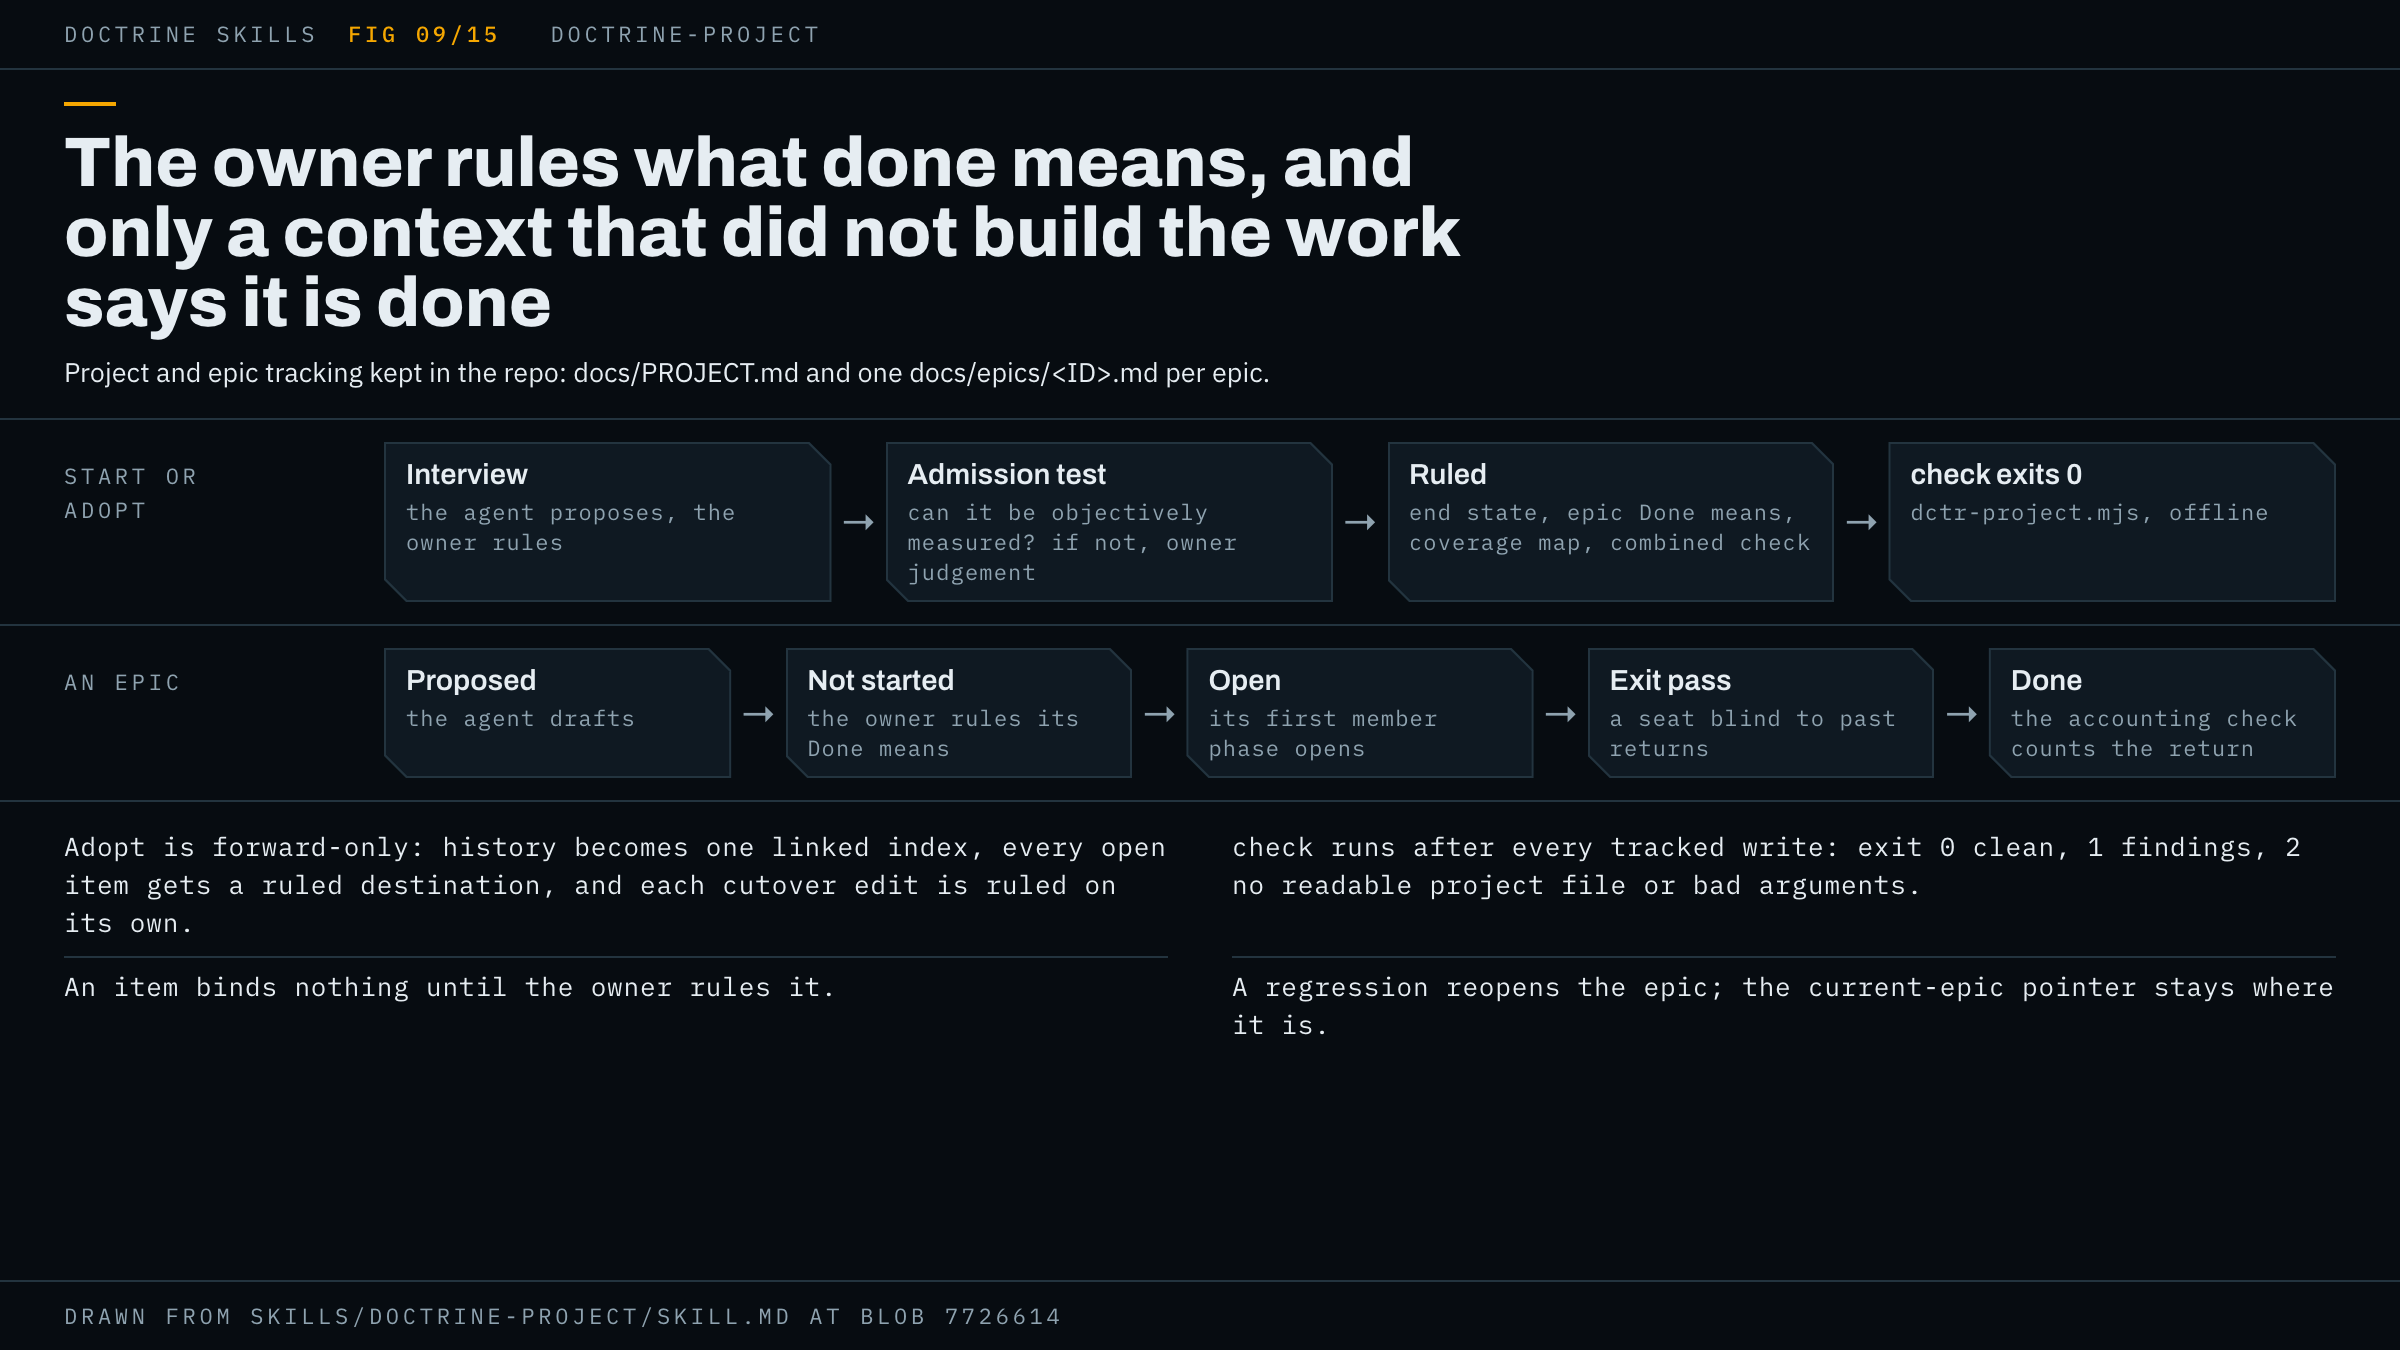
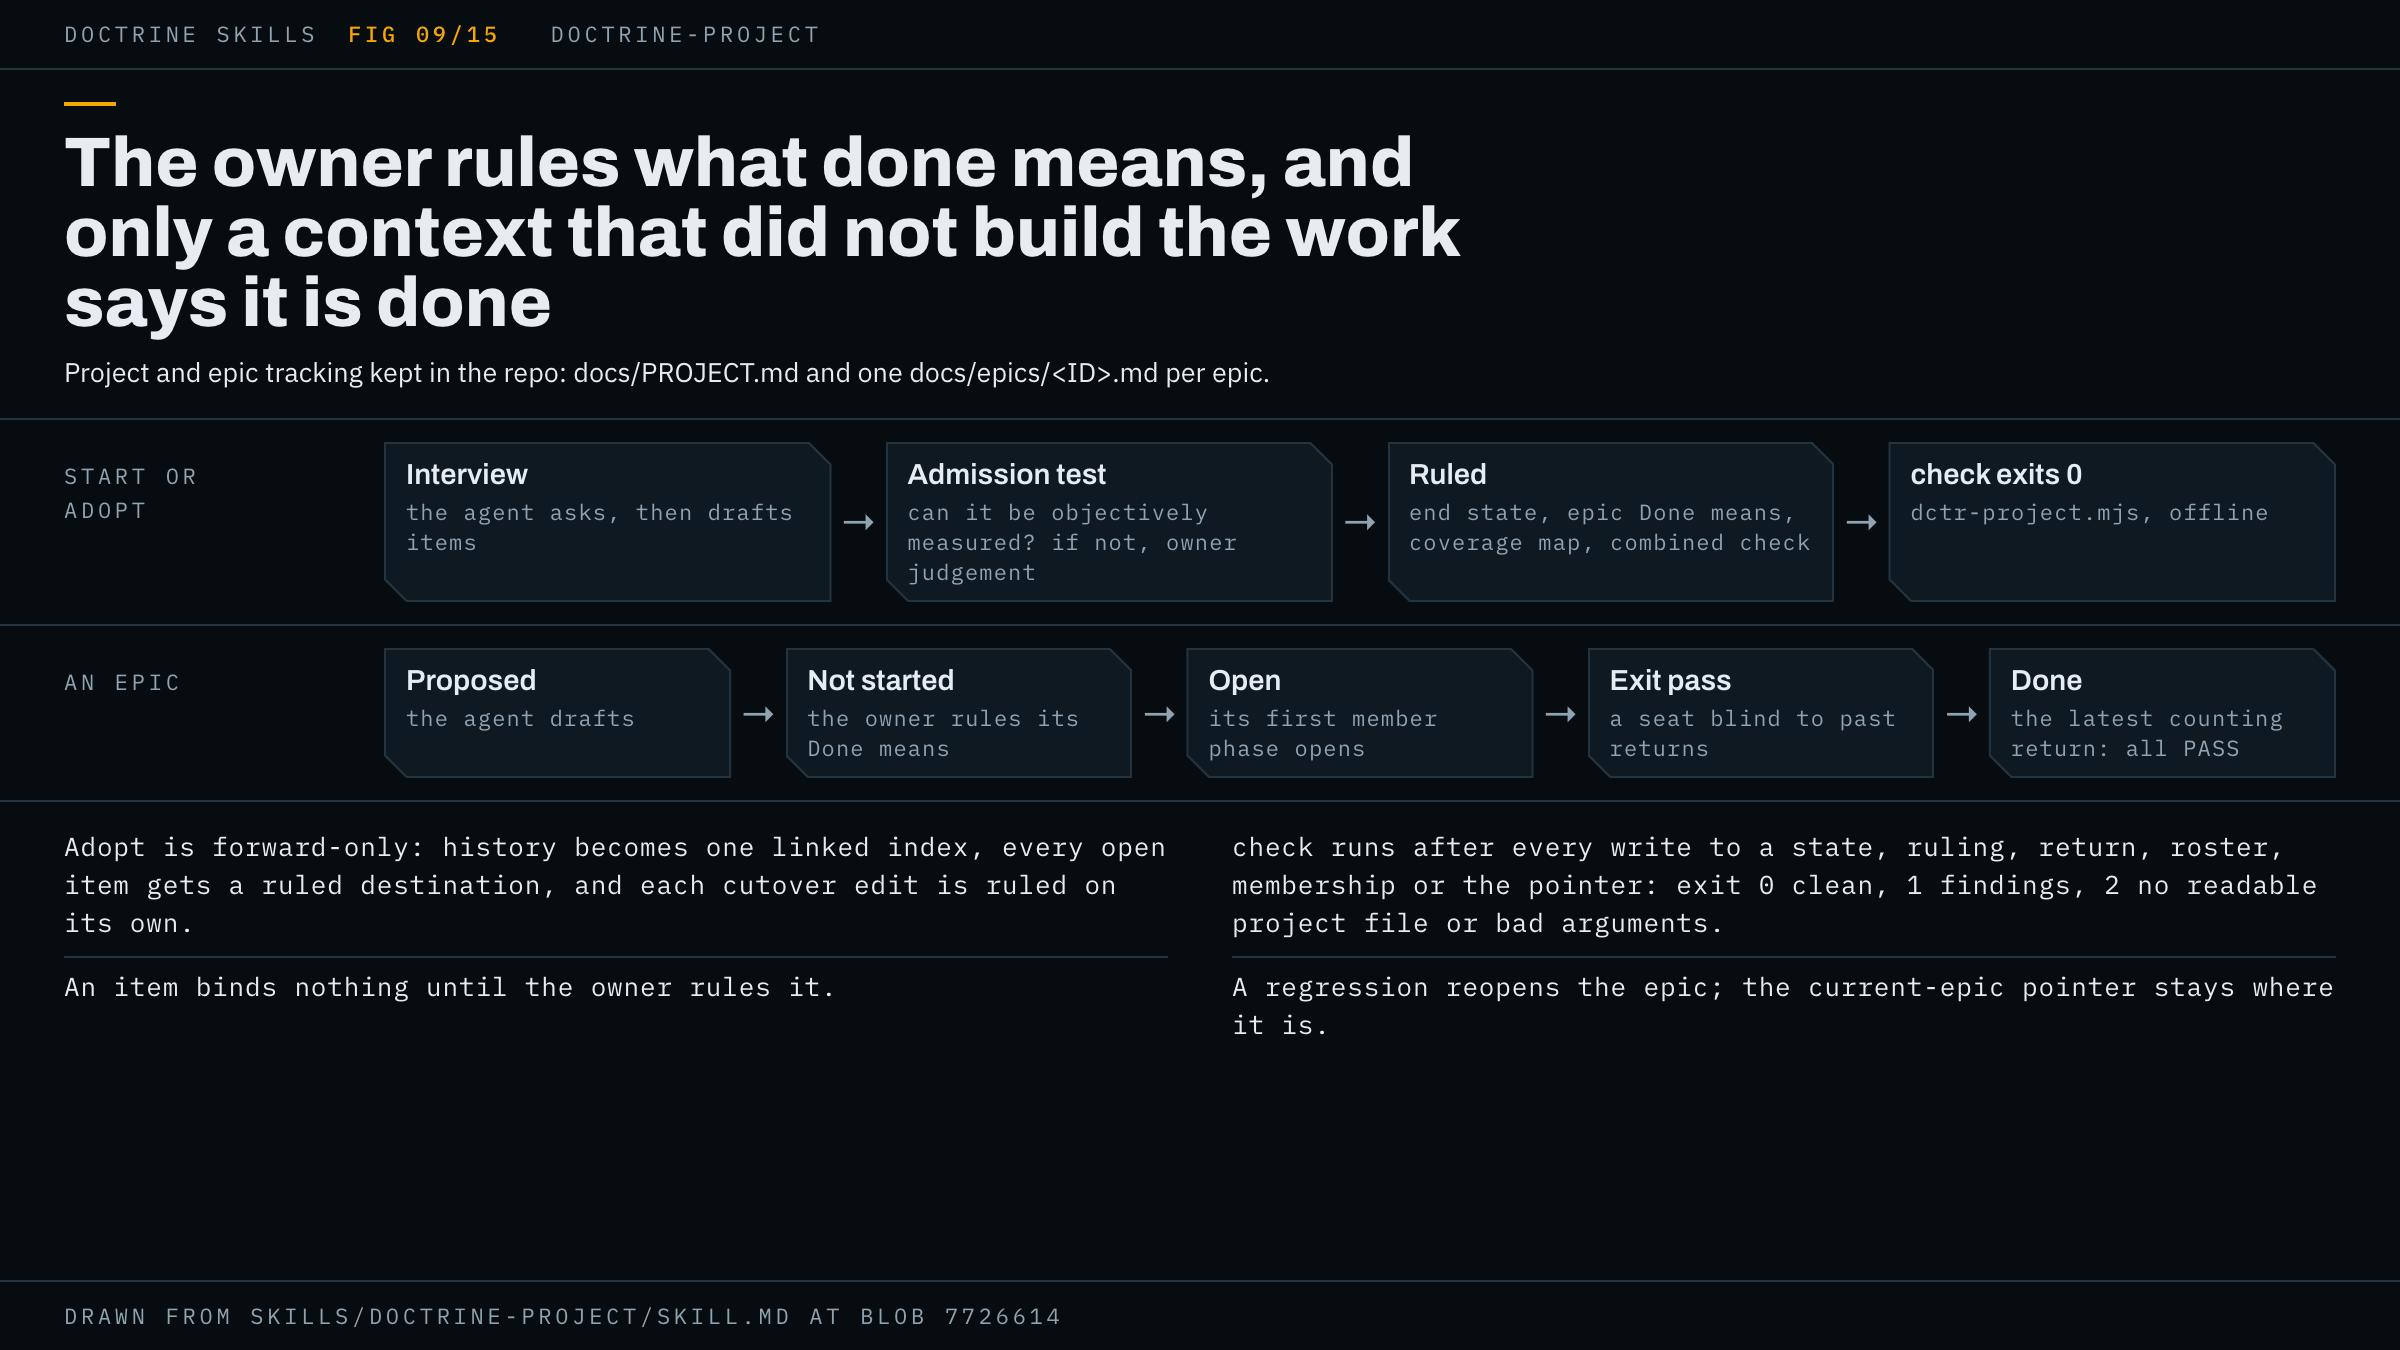
doctrine-project page: closing-round repairs against the skill's admission, exit, coverage and combined check rules

Changed region(s): [[0.5, 0.6222, 0.9375, 0.6844], [0.8438, 0.5289, 0.9375, 0.56], [0.2188, 0.3733, 0.3125, 0.4044]]

diff --git a/docs/skills/figures/doctrine-project.html b/docs/skills/figures/doctrine-project.html
@@ -19,7 +19,7 @@
 <section class="row">
   <div class="label">Start or<br>adopt</div>
   <div class="flow">
-    <div class="box"><b>Interview</b><span>the agent proposes, the owner rules</span></div>
+    <div class="box"><b>Interview</b><span>the agent asks, then drafts items</span></div>
     <div class="arrow">→</div>
     <div class="box"><b>Admission test</b><span>can it be objectively measured? if not, owner judgement</span></div>
     <div class="arrow">→</div>
@@ -40,13 +40,13 @@
     <div class="arrow">→</div>
     <div class="box"><b>Exit pass</b><span>a seat blind to past returns</span></div>
     <div class="arrow">→</div>
-    <div class="box"><b>Done</b><span>the accounting check counts the return</span></div>
+    <div class="box"><b>Done</b><span>the latest counting return: all PASS</span></div>
   </div>
 </section>
 
 <section class="notes">
   <p>Adopt is forward-only: history becomes one linked index, every open item gets a ruled destination, and each cutover edit is ruled on its own.</p>
-  <p>check runs after every tracked write: exit 0 clean, 1 findings, 2 no readable project file or bad arguments.</p>
+  <p>check runs after every write to a state, ruling, return, roster, membership or the pointer: exit 0 clean, 1 findings, 2 no readable project file or bad arguments.</p>
   <p>An item binds nothing until the owner rules it.</p>
   <p>A regression reopens the epic; the current-epic pointer stays where it is.</p>
 </section>

diff --git a/docs/skills/doctrine-project.md b/docs/skills/doctrine-project.md
@@ -12,7 +12,7 @@ The trigger is a request to start tracking a project, or to adopt an existing re
 
 It does not build an epic. Each phase still runs under the wrapper that fits its shape, such as `doctrine-code` or `doctrine-write`. Once a repo carries `docs/PROJECT.md`, the hub's step 1 sends every phase there through this skill's lifecycle procedure, whichever wrapper runs it, so you invoke `doctrine-project` once and not per phase.
 
-It is not for a one-off question or a single edit to a tracker file. The hub says not to use the doctrine for those.
+It is not for a one-off question, or a one-off edit to a single file nothing else reads, which the hub says needs no doctrine. A project file or an epic record is read by every later phase, so an edit to one is not that case.
 
 ## The two modes
 
@@ -39,11 +39,11 @@ Every item has seven fields: an ID, an Outcome, a Type, a Check (what a context 
 
 Every end-state and Done means item passes one admission test before it reaches you: "Can [requirement] be objectively measured/verified?" An item that cannot is type T4, owner judgement, and its check verifies that your ruling on a named revision exists, never the taste. An item that joins two requirements is split in two. An item missing any field is not put to you.
 
-Where an item's Check can run at the revision it is admitted at, the agent runs its Control and its Check there and keeps both transcripts as the item's admission evidence. The Control has to fail for the reason the Check measures, or the Check is repaired before the item goes anywhere. Where the Check cannot run yet, its Control line carries the mark `not yet shown failing:` and what it needs to run.
+Where an item's Check can run at the revision it is admitted at, the agent runs its Control and its Check there and keeps both transcripts as the item's admission evidence. The Control has to fail for the reason the Check measures, or the Check is repaired before the item goes anywhere. Where the Check already passes, something other than that Check settles whether the Outcome is present. Where it is, and the Control failed for the reason the Check measures, the item is not live work: it is history, or you rule it `preserve` for the phase that must keep it passing. Where the Outcome is absent, the Check cannot tell present from absent and is repaired. A run that fell over before it measured anything has not run. Where the Check cannot run yet, its Control line carries the mark `not yet shown failing:` and what it needs to run, and the mark comes off only once the Control has been run and shown failing.
 
 What you rule, besides each item:
 
-- the coverage map, which names for each end-state item exactly one epic that satisfies it, or a project-level ruling, and for each epic its planned member phases, each phase carrying one obligation toward each item it serves: satisfy, contribute or preserve;
+- the coverage map, which names for each end-state item exactly one epic that satisfies it, or a project-level ruling, and for each epic its planned member phases, each phase carrying one obligation toward each item it serves: satisfy, contribute or preserve. A phase opened for an epic takes one of those planned names or comes with a `coverage` ruling that adds it, and the planned names and the epic's `## Members` phases stay one set;
 - each epic's `Combined check:` line, which runs across the seams between its member phases, ruled with its Done means;
 - in adopt, each open item's destination and each cutover edit.
 
@@ -67,13 +67,17 @@ Until you rule an item it binds nothing: no seat (an agent the run dispatches) t
 
 The project is Proposed until you rule its end state, then Ruled, and Done only when every epic on the roster is Done, Dropped or Superseded and a project exit pass returns a result that counts. A new end-state ruling, a regression, an epic leaving a terminal state or a new roster line puts it back to Ruled.
 
-**Exit passes.** The agent opens an epic's exit pass once its member phases have exited, and the project's once every roster epic is terminal. It writes the revision on the `Certification target:` line, then dispatches a seat that did not build the work. That seat gets the record with every `return` and `regression` entry removed, and its search excludes them in every tracked file, so it never sees how earlier passes went. Your rulings stay in, so it can find the ruling a T4 item needs. The same exclusion applies to every phase reviewer and red team in an adopted repo. The seat's brief pastes the item types, the evidence kinds, the current-baseline rule, the rule for when a return counts, the admission test, and the admission evidence of each item not marked `not yet shown failing:`. Where a check runs a command, the seat is one that can run commands. It returns PASS, FAIL or UNVERIFIED per item with an evidence reference, and for an epic it also runs the `Combined check:` line. Missing evidence is UNVERIFIED, never PASS.
+**Exit passes.** The agent opens an epic's exit pass once its member phases have exited, and the project's once every roster epic is terminal. It writes the revision on the `Certification target:` line, then dispatches a seat that did not build the work. That seat gets the record with every `return` and `regression` entry removed, and its search excludes them in every tracked file, so it never sees how earlier passes went. Your rulings stay in, so it can find the ruling a T4 item needs. The same exclusion applies to every phase reviewer and red team in an adopted repo. The seat's brief pastes the item types, the evidence kinds, the current-baseline rule, the rule for when a return counts, the admission test, and the admission evidence of each item not marked `not yet shown failing:`. Where a check runs a command, the seat is one that can run commands. It returns PASS, FAIL or UNVERIFIED per item with an evidence reference, and for an epic it also runs the `Combined check:` line. Missing evidence is UNVERIFIED, never PASS. An item still marked `not yet shown failing:` gets PASS only once its Control has been run and shown failing at the certification target. Admission evidence that does not show the Control failing for the reason the Check measures makes the item UNVERIFIED, or FAIL where its Check fails. An item admitted before admission runs were kept is graded by its Check and named apart, and that absence alone does not make it UNVERIFIED.
 
-**The accounting check.** The agent, never a seat, decides whether a return counts: it runs `check` and `status` and reads each PASS's evidence reference against the item's Type and Evidence lines. A return counts only when the target is set, its baseline is the current one, its revision is the target, and no regression against its items follows it. Only a counting return moves a state.
+**The accounting check.** The agent, never a seat, decides whether a return counts: it runs `check` and `status` and reads each PASS's evidence reference against the item's Type and Evidence lines. A return counts only when the target is set, its baseline is the current one, its revision is the target, and no regression against its items follows it. Where more than one return counts, the latest decides. Only a counting return moves a state.
 
-**A failed item.** A failing end-state item gets a regression recorded against each Done means item that serves it, or against every Done means item where those cannot be named, in the epic that satisfies it. Where that epic was superseded, the agent first puts you a `coverage` ruling naming the Done epic at the end of its successor chain, and records the regressions there. That epic alone reopens, in the same write. A failing item ruled project-level may be fixed by a phase outside any epic. The `Current epic:` pointer moves only when a member phase opens an epic, never on such a reopen.
+**A failed item.** A failing end-state item gets a regression recorded against each Done means item that serves it, or against every Done means item where those cannot be named, in the epic that satisfies it. Where that epic was superseded, the agent first puts you a `coverage` ruling naming the Done epic at the end of its successor chain, and records the regressions there. That epic alone reopens, in the same write. A failing item ruled project-level may be fixed by a phase outside any epic. The project exit pass then reruns. The `Current epic:` pointer moves only when a member phase opens an epic, never on such a reopen.
 
-**Changes after a ruling.** A Done means change needs your `impact` ruling, and the evidence behind the changed items must be gathered again. A change to what a ruled combined check runs needs a new `baseline` ruling, which stops older returns counting. A typo in that line gets no ruling, since a `baseline` ruling would void good returns. A decision that moves nothing, such as an escalation you rule when an alarm fires, is recorded as a `note` ruling, which voids nothing.
+**Changes after a ruling.** A Done means change needs your `impact` ruling, and the evidence behind the changed items must be gathered again. A change to what a ruled combined check runs, or to its pass rule, needs a new `baseline` ruling, which stops older returns counting and moves a Done epic back to Open. A repair that leaves both doing the same thing, such as a typo, gets no ruling, since a `baseline` ruling would void good returns. The test is what the check now does, not whether its words moved: unchanged words that now run something else are a change. `check` sees neither mistake. A decision that moves nothing, such as an escalation you rule when an alarm fires, is recorded as a `note` ruling, which voids nothing.
+
+**Work nothing covers.** A successor covers an end-state item only once it is Done. Where a successor chain ends at an epic that is Proposed, Not started or Open, the repair is a `coverage` ruling naming that epic as the item's satisfy epic. Where it ends at a Dropped epic, loops, or leaves the roster, the repair is a new epic on the roster and a `coverage` ruling naming it. That ruling comes first whenever a reopen reaches the Done end of a superseded epic's chain.
+
+**Records older than the combined check result.** `check` reports an epic whose deciding return predates the `Combined check result:` line. An epic that can still take a pass gets a `baseline` ruling re-approving the same `Combined check:` line, which reopens it, and a fresh exit pass, and a Done project goes back to Ruled meanwhile. A Dropped or Superseded epic instead gets `Certification target: none`, after which no return in it counts. Nobody writes a result into a return a seat already gave.
 
 **In an orchestrated run.** In a [`doctrine-orchestrate`](doctrine-orchestrate.md) run only the orchestrator writes the project file and the epic records. A lane that needs a lifecycle write sends a request, `node <plugin-root>/hooks/dctr-send.mjs report request '<text>'` with each `'` in the text written as `'\''`, and waits for the orchestrator's answer in its held folder before any step that needs it.
 
@@ -112,7 +116,7 @@ The hub ([doctrine.md](doctrine.md)) supplies the posture, the gate, the alarms 
 
 Start ends when the project is Ruled, the first epic is Not started with its Done means, coverage map and combined check ruled, and `check` exits 0. Adopt ends when the project is Ruled, every live epic is Not started or Open, every open item has its destination ruling and row, every cutover edit is ruled and committed, any GitHub Projects board is reported unread, and `check` exits 0. Both deliverables are prose, so both phases exit under the hub's prose-deliverable exit: one clean pass, or, where none has come clean when the round alarm first fires, one closing round and delivery with the punch list ([doctrine.md](doctrine.md)).
 
-An epic ends Done on a counting exit return with PASS for every Done means item and for its combined check. The project ends Done the same way, on a project exit pass, once every roster epic is terminal.
+An epic ends Done when the latest counting exit return carries PASS for every Done means item and for its combined check. The project ends Done the same way, on a project exit pass, once every roster epic is terminal.
 
 ## A worked example
 
@@ -138,7 +142,7 @@ use doctrine-project to adopt this repo; the tracker is GitHub issues
 
 ## Requirements
 
-Nothing has to be installed. `superpowers:brainstorming` runs the interview where it is installed, and without it the agent runs the interview itself. The format check is plain Node with no network call. herdr is optional and only adds the sidebar tokens. [docs/requirements.md](../requirements.md) has the install commands.
+Nothing has to be installed. `superpowers:brainstorming` runs the interview where it is installed, and without it the agent runs the interview itself. The format check is plain Node. herdr is optional: it adds the sidebar tokens, and the live seat panes [Watching a run](../watching-a-run.md) describes. [docs/requirements.md](../requirements.md) has the install commands.
 
 ## Red flags
 
